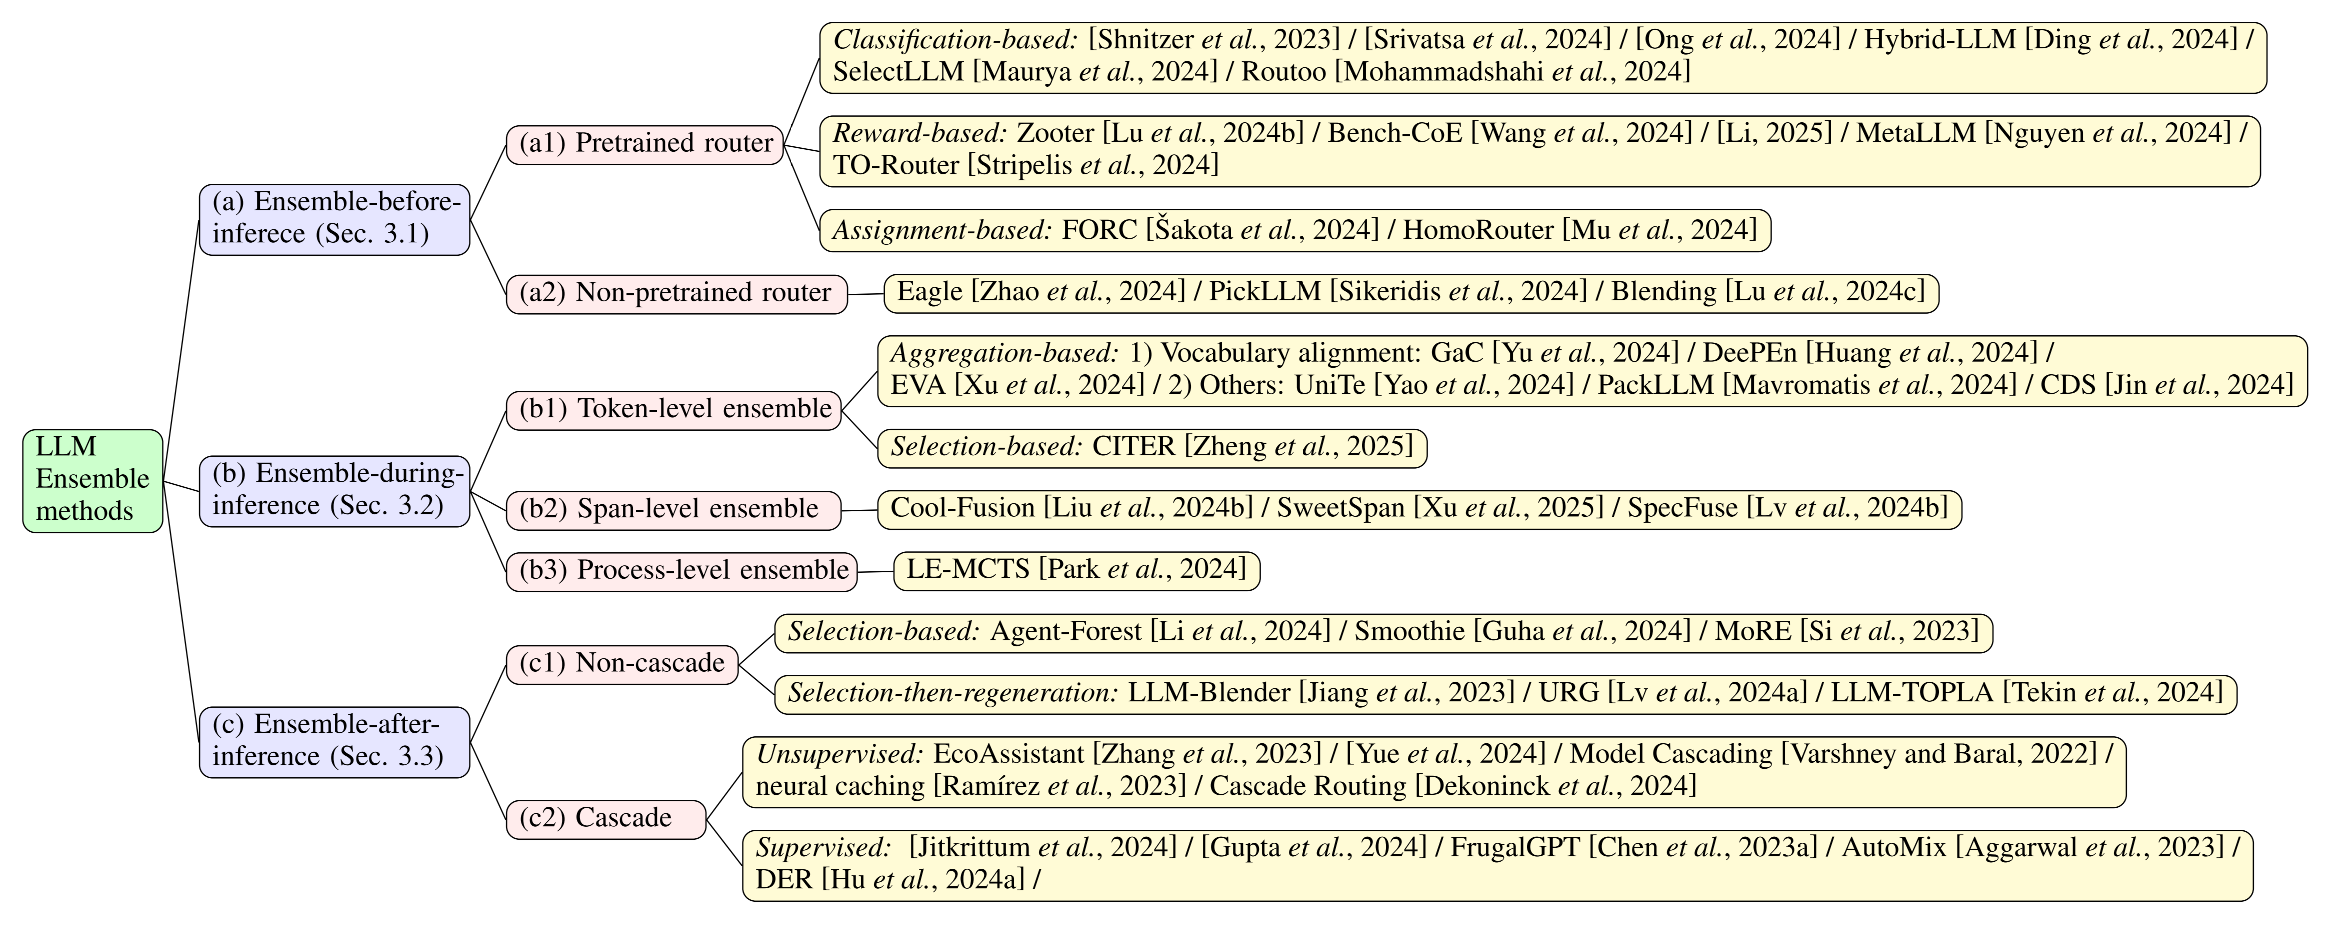
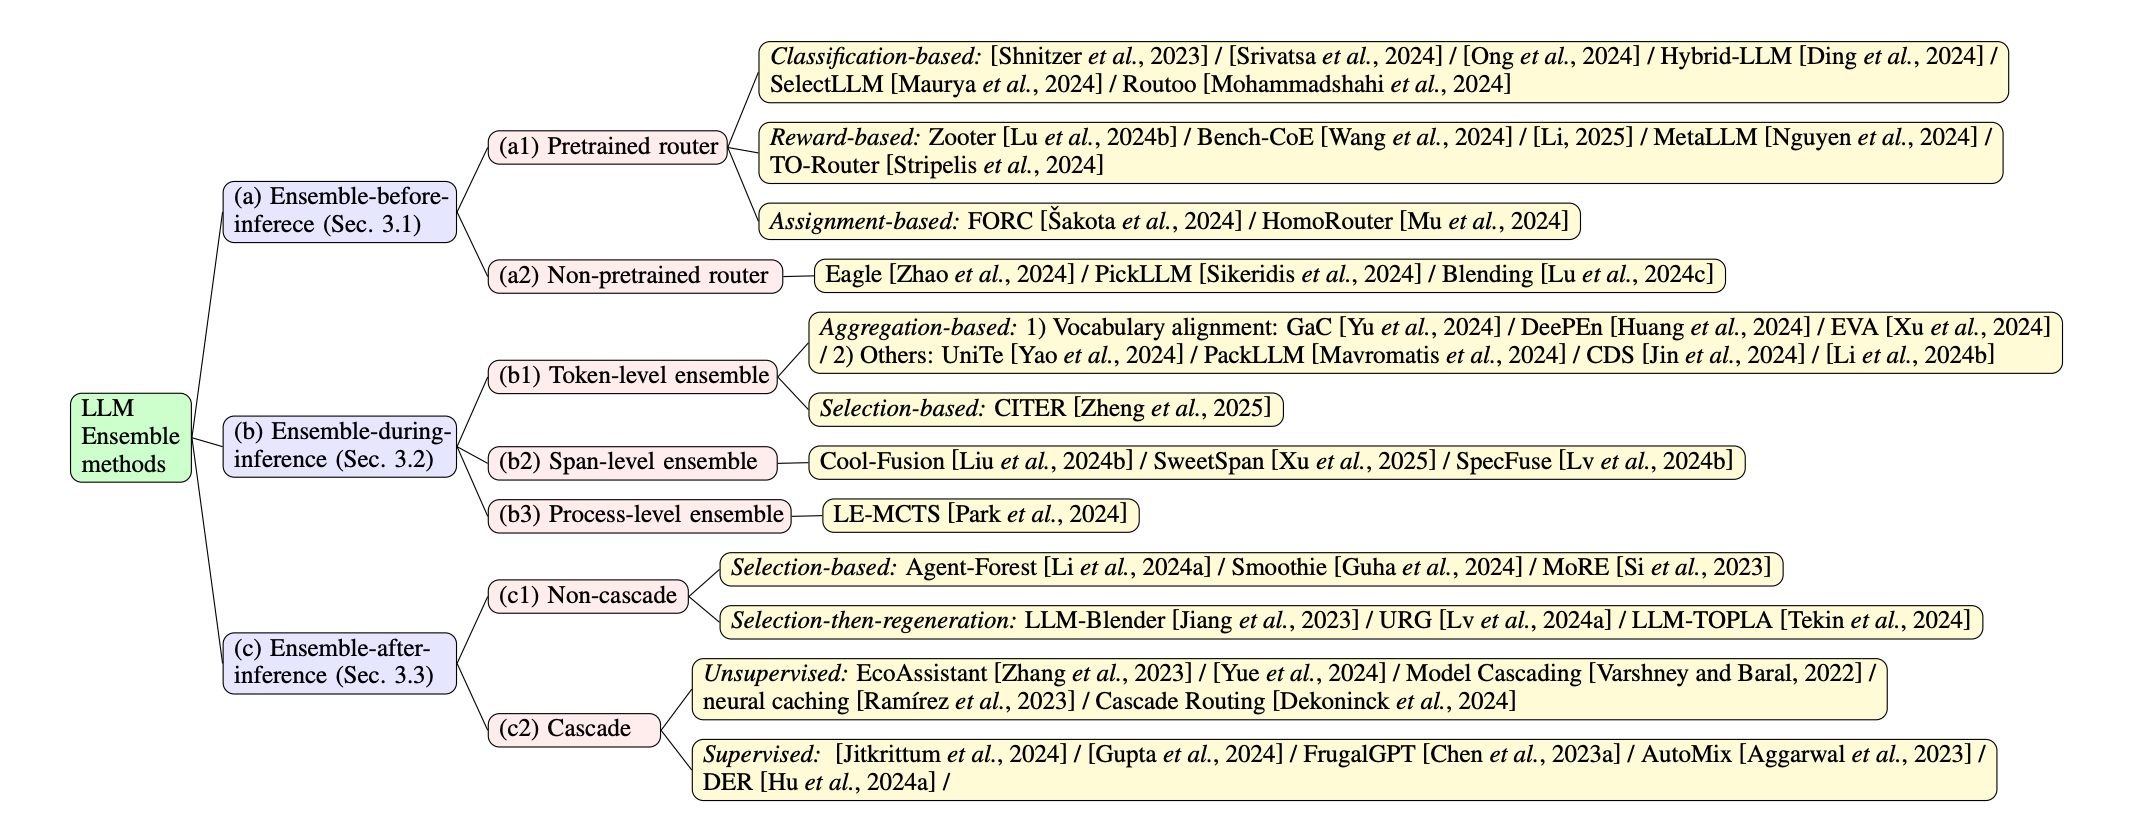
first commit

diff --git a/README.md b/README.md
@@ -1,4 +1,5 @@
-<h1 align="center">🔥 Awesome-LLM-Ensemble
+<h1 align="center">🔥🔥🔥 Awesome-LLM-Ensemble 
+
 "Harnessing Multiple Large Language Models: A Survey on LLM Ensemble"</h2>
   <p align="center">
     <a href="https://scholar.google.com/citations?user=3slpkWAAAAAJ&hl=zh-CN">Zhijun Chen</a>,
@@ -13,13 +14,19 @@
     <a href="https://scholar.google.com/citations?user=D0lL1r0AAAAJ&hl=zh-CN/">Philip S. Yu</a>
   </p>
   <p align="center">
-    <img src="fig/logo.png" alt="Logo" width="50%">
+    <img src="fig/logo.png" alt="Logo" width="60%">
   </p>
 </p>
 
-<!-- Make the "Maintained?" and License info centered -->
-<div align="center">
-   <p>
+
+
+<p align="center">
+  <a href='https://arxiv.org/abs/2502.18036'><img src='https://img.shields.io/badge/Arxiv-2502.18036-b31b1b.svg?logo=arXiv'></a>
+
+</p>
+
+
+<p align="center">
       <a href="https://github.com/junchenzhi/Awesome-LLM-Ensemble/commits/main">
         <img src="https://img.shields.io/badge/Maintained%3F-yes-green.svg" alt="Maintenance">
       </a>
@@ -29,18 +36,26 @@
       <a href="https://awesome.re">
         <img src="https://awesome.re/badge.svg" alt="Awesome">
       </a>
+  <a href="https://img.shields.io/badge/PRs-Welcome-red">
+    <img src="https://img.shields.io/badge/PRs-Welcome-red" alt="PRs Welcome">
+  </a>
+  <a href=""><img src="https://img.shields.io/github/last-commit/junchenzhi/Awesome-LLM-Ensemble?color=blue"></a>
+</p>
+
+
+<p align="center">
+  <a href=""><img src="https://hits.seeyoufarm.com/api/count/incr/badge.svg?url=https%3A%2F%2Fgithub.com%2Fjunchenzhi%2FAwesome-LLM-Ensemble&count_bg=%23FFA500&title_bg=%23555555&icon=&icon_color=%23E7E7E7&title=visitors&edge_flat=false"></a>
       <a href="https://github.com/junchenzhi/Awesome-LLM-Ensemble/stargazers">
         <img src="https://img.shields.io/github/stars/junchenzhi/Awesome-LLM-Ensemble?color=green" alt="GitHub stars">
       </a>
       <a href="https://github.com/junchenzhi/Awesome-LLM-Ensemble/network">
         <img src="https://img.shields.io/github/forks/junchenzhi/Awesome-LLM-Ensemble?color=blue&label=Forks" alt="GitHub forks">
       </a>
-  </p>
-</div>
+</p>
 
 
 
-<h5 align="center">If you like our project, please give it a star ⭐ to show your support. 
+<h5 align="center">If you like our project, please give it a star ⭐ to show your support！Thank you:)
 
 
 For this emerging topic, we hope this project can provide some reference for researchers and look forward to more interesting studies!
@@ -48,13 +63,16 @@ For this emerging topic, we hope this project can provide some reference for res
 
 
 
-# 📣 News and Notices
+# 📣 Notices
 > 🔥🔥🔥 This is a collection of papers on  ***LLM Ensemble***.   
-It's based on our survey paper: Harnessing Multiple Large Language Models: A Survey on LLM Ensemble. 
+It's based on our survey paper: Harnessing Multiple Large Language Models: A Survey on LLM Ensemble.   <a href='https://arxiv.org/abs/2502.18036'><img src='https://img.shields.io/badge/Arxiv-2502.18036-b31b1b.svg?logo=arXiv'></a>
 
-> **[Always]** We will try to make this list updated frequently. If you found any error or any missed/new paper, please don't hesitate to contact [us](zhijunchen@buaa.edu.cn).
 
-> **[2025/02/19]** We will release our paper on arXiv in the next few days. Stay tuned.
+> **[Always] [Maintain]** ***We will make this list updated frequently (at least until 12/31/2025). All newly discovered relevant papers will be updated in this repository within one week and in the arXiv paper within two months!***     
+> If you found any error or any missed/new paper, please don't hesitate to contact [us](zhijunchen@buaa.edu.cn) or Pull requests. 
+
+> **[Always] [Collaboration]** If you have any new and interesting ideas, feel free to discuss with us and explore potential collaborations.
+
 
 
 
@@ -80,6 +98,7 @@ It's based on our survey paper: Harnessing Multiple Large Language Models: A Sur
     - 2.3 [Ensemble After Inference](#23-ensemble-after-inference)
     - 2.4 [Others: Benchmarks and Applications](#24-others-benchmarks-and-applications)
   - 3 [Summarization](#3-summarization)
+  -  [Citation](#citation)
 
 
 
@@ -120,25 +139,25 @@ A curated list of papers  on LLM Ensemble is available at https://github.com/jun
 - ***(a) Ensemble before inference.***  
 In essence, this approach employs a routing algorithm prior to LLM inference to allocate a specific query to the most suitable model, allowing the selected model that is specialized for the query and typically more cost-efficient inference to perform the task.
  Existing methods can be classified into two categories, depending on whether the router necessitates the use of pre-customized data for pre-training:   
-  - ***(a,1) Pre-training router;***
-  - ***(a,2) Non pre-training router.***
+  - ***(a1) Pre-training router;***
+  - ***(a2) Non pre-training router.***
 
 
 
 
 - ***(b) Ensemble during inference.***  
 As the most granular form of ensemble among the three broad categories, this type of approach encompasses: 
-  - ***(b,1) Token-level ensemble*** methods, which integrate the token-level outputs of multiple models at the finest granularity of decoding;
-  - ***(b,2) Span-level ensemble*** methods, which conduct ensemble at the level of a sequence fragment (e.g., a span of four words); 
-  - ***(b,3) Process-level ensemble*** methods, which select the optimal reasoning process step-by-step within the reasoning chain for a given complex reasoning task. 
+  - ***(b1) Token-level ensemble*** methods, which integrate the token-level outputs of multiple models at the finest granularity of decoding;
+  - ***(b2) Span-level ensemble*** methods, which conduct ensemble at the level of a sequence fragment (e.g., a span of four words); 
+  - ***(b3) Process-level ensemble*** methods, which select the optimal reasoning process step-by-step within the reasoning chain for a given complex reasoning task. 
 Note that for these ensemble-during-inference methods, the aggregated text segments will be concatenated with the previous text and fed again to models.
 
 
 
 - ***(c) Ensemble after inference.***  
 These methods can be classified into two categories:
-  - ***(c,1) Non cascade*** methods, which perform ensemble using multiple complete responses contributed from all LLM candidates;
-  - ***(c,2) Cascade*** methods, which consider both performance and inference costs, progressively reasoning through a chain of LLM candidates largely sorted by model size to find the most suitable inference response.
+  - ***(c1) Non cascade*** methods, which perform ensemble using multiple complete responses contributed from all LLM candidates;
+  - ***(c2) Cascade*** methods, which consider both performance and inference costs, progressively reasoning through a chain of LLM candidates largely sorted by model size to find the most suitable inference response.
 
 
 
@@ -187,7 +206,7 @@ Figure 3:  Summary analysis of the key attributes of ensemble-before-inference m
 
 - **LLM Bandit: Cost-Efficient LLM Generation via Preference-Conditioned Dynamic Routing.** [[Paper]](https://arxiv.org/abs/2502.02743) (2025)
   - Name: -
-  - Code: [[Official]](https://github.com/m365-core/hybrid_llm_routing) 
+  - Code: -
 
 - **Harnessing the Power of Multiple Minds: Lessons Learned from LLM Routing.** [[Paper]](https://arxiv.org/abs/2405.00467) (2024)
   - Name: -
@@ -205,7 +224,7 @@ Figure 3:  Summary analysis of the key attributes of ensemble-before-inference m
   - Name: Bench-CoE
   - Code: [[Official]](https://github.com/ZhangXJ199/Bench-CoE) 
 
-- **Routing to the Expert: Efficient Reward-guided Ensemble of Large Language Models.** [[Paper]](https://arxiv.org/abs/2311.08692) (2024)
+- **Routing to the Expert: Efficient Reward-guided Ensemble of Large Language Models.** [[Paper]](https://arxiv.org/abs/2311.08692) (2023)
   - Name: ZOOTER
   - Code: -
 
@@ -262,9 +281,9 @@ Figure 4:  Summary analysis of the key attributes of ensemble-during-inference m
   - Name: GaC
   - Code: [[Official]](https://github.com/yaoching0/GaC) 
 
-- **Ensemble Learning for Heterogeneous Large Language Models with Deep Parallel Collaboration.** [[Paper]](https://openreview.net/forum?id=7arAADUK6D) (2024)
+- **Ensemble Learning for Heterogeneous Large Language Models with Deep Parallel Collaboration.** [[Paper]](https://arxiv.org/abs/2404.12715) (2024)
   - Name: DeePEn
-  - Code: [[Official]](https://github.com/JieyuZ2/wrench)
+  - Code: [[Official]](https://github.com/OrangeInSouth/DeePEn)
 
 - **Bridging the Gap between Different Vocabularies for LLM Ensemble.** [[Paper]](https://arxiv.org/abs/2404.09492) (2024)
   - Name: EVA
@@ -277,6 +296,10 @@ Figure 4:  Summary analysis of the key attributes of ensemble-during-inference m
 - **Pack of LLMs: Model Fusion at Test-Time via Perplexity Optimization.** [[Paper]](https://arxiv.org/abs/2404.11531) (2024)
   - Name: PackLLM
   - Code: [[Official]](https://github.com/cmavro/PackLLM)
+
+- **Purifying large language models by ensembling a small language model.** [[Paper]](https://arxiv.org/abs/2402.14845) (2024)
+  - Name: -
+  - Code: -
 
 - **CITER: Collaborative Inference for Efficient Large Language Model Decoding with Token-Level Routing.** [[Paper]](https://arxiv.org/abs/2502.01976) (2025)
   - Name: CITER
@@ -344,7 +367,7 @@ Figure 5:  Summary analysis of the key attributes of ensemble-during-inference m
   - Name: MoRE
   - Code: [[Official]](https://github.com/NoviScl/MoRE)
 
-- **LLM-Blender: Ensembling Large Language Models with Pairwise Ranking and Generative Fusion.** [[Paper]](https://arxiv.org/abs/2306.02561) (2024)
+- **LLM-Blender: Ensembling Large Language Models with Pairwise Ranking and Generative Fusion.** [[Paper]](https://arxiv.org/abs/2306.02561) (2023)
   - Name: LLM-Blender
   - Code: [Official](https://github.com/yuchenlin/LLM-Blender) 
 
@@ -363,11 +386,11 @@ Figure 5:  Summary analysis of the key attributes of ensemble-during-inference m
   - Name: EcoAssistant
   - Code: [[Official]](https://github.com/JieyuZ2/EcoAssistant)
 
-- **Large Language Model Cascades with Mixture of Thoughts Representations for Cost-efficient Reasoning.** [[Paper]](https://arxiv.org/abs/2310.03094) (2024)
-  - Name: EcoAssistant
+- **Large Language Model Cascades with Mixture of Thoughts Representations for Cost-efficient Reasoning.** [[Paper]](https://arxiv.org/abs/2310.03094) (2023)
+  - Name: -
   - Code: [[Official]](https://github.com/MurongYue/LLM_MoT_cascade)
 
-- **Model Cascading: Towards Jointly Improving Efficiency and Accuracy of NLP Systems.** [[Paper]](https://arxiv.org/abs/2210.05528) (2024)
+- **Model Cascading: Towards Jointly Improving Efficiency and Accuracy of NLP Systems.** [[Paper]](https://arxiv.org/abs/2210.05528) (2022)
   - Name: Model Cascading
   - Code: -
 
@@ -375,9 +398,9 @@ Figure 5:  Summary analysis of the key attributes of ensemble-during-inference m
   - Name: neural caching
   - Code: [[Official]](https://github.com/guillemram97/neural-caching)
 
-- **A Unified Approach to Routing and Cascading for LLMs.** [[Paper]](https://arxiv.org/abs/2410.10347) (2023)
+- **A Unified Approach to Routing and Cascading for LLMs.** [[Paper]](https://arxiv.org/abs/2410.10347) (2024)
   - Name: Cascade Routing 
-  - Code: [[Official]](https://github.com/guillemram97/neural-caching)
+  - Code: [[Official]](https://github.com/eth-sri/cascade-routing)
 
 - **When Does Confidence-Based Cascade Deferral Suffice?** [[Paper]](https://proceedings.neurips.cc/paper_files/paper/2023/hash/1f09e1ee5035a4c3fe38a5681cae5815-Abstract-Conference.html) (2023)
   - Name: -
@@ -393,9 +416,9 @@ Figure 5:  Summary analysis of the key attributes of ensemble-during-inference m
   
 - **AutoMix: Automatically Mixing Language Models.** [[Paper]](https://arxiv.org/abs/2310.12963) (2023)
   - Name: AutoMix
-  - Code: -
+  - Code: [[Official]](https://github.com/automix-llm/automix)
 
-- **Dynamic Ensemble Reasoning for LLM Experts.** [[Paper]](https://arxiv.org/abs/2412.07448) (2023)
+- **Dynamic Ensemble Reasoning for LLM Experts.** [[Paper]](https://arxiv.org/abs/2412.07448) (2024)
   - Name: DER
   - Code: -
 
@@ -434,7 +457,7 @@ Beyond the methods presented before, the concept of LLM Ensemble has found appli
 Here we give some examples:
 
 
-- **Ensemble-Instruct: Generating Instruction-Tuning Data with a Heterogeneous Mixture of LMs.** [[Paper]](https://arxiv.org/pdf/2310.13961) (2023)
+- **Ensemble-Instruct: Generating Instruction-Tuning Data with a Heterogeneous Mixture of LMs.** [[Paper]](https://arxiv.org/abs/2310.13961) (2023)
   - Name: Ensemble-Instruct
   - Task: Instruction-Tuning Data Generation 
   - Code: [[Official]](https://github.com/IBM/ensemble-instruct)
@@ -467,3 +490,19 @@ Here we give some examples:
 
 Figure 6:  Summary analysis of the key attributes of LLM Ensemble approaches.
 </div>
+
+
+
+
+
+## Citation
+
+
+```
+@article{chen2025harnessing,
+  title={Harnessing Multiple Large Language Models: A Survey on LLM Ensemble},
+  author={Chen, Zhijun and Li, Jingzheng and Chen, Pengpeng and Li, Zhuoran and Sun, Kai and Luo, Yuankai and Mao, Qianren and Yang, Dingqi and Sun, Hailong and Yu, Philip S},
+  journal={arXiv preprint arXiv:2502.18036},
+  year={2025}
+}
+```
